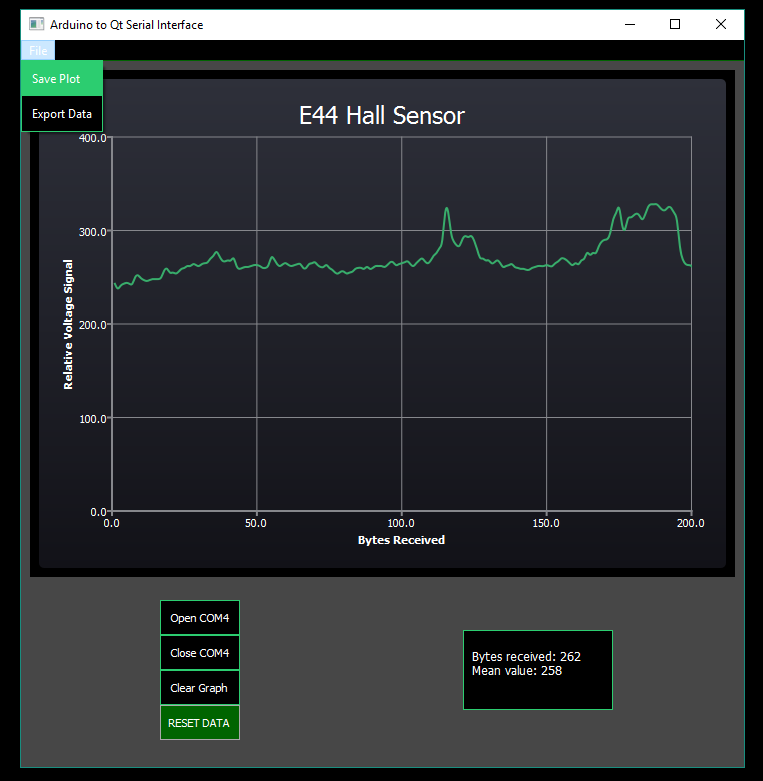
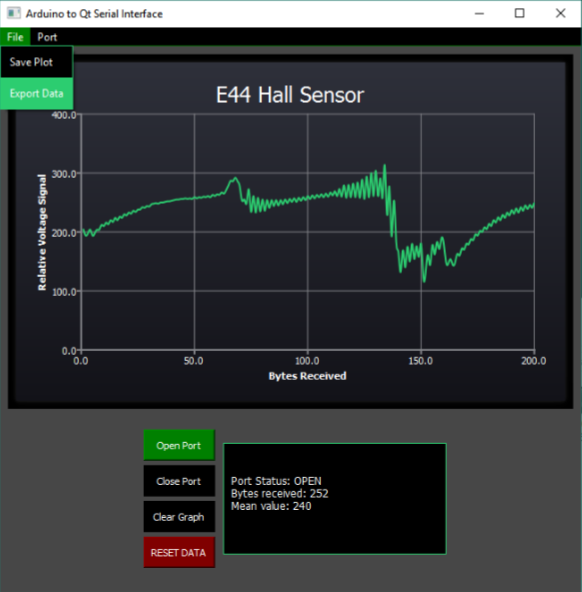
UI update

diff --git a/src/mainwindow.cpp b/src/mainwindow.cpp
@@ -70,8 +70,6 @@ MainWindow::MainWindow(QWidget *parent) : QMainWindow(parent)
     comms_log.setFixedSize(250,125);
     comms_panel_layout->setSpacing(0);
 
-
-    QSpacerItem height_spacer_100(100,100);
     com_button_layout = new QVBoxLayout(comControlWidget);
 
     transmission_label.setText("Transmission |");
@@ -144,7 +142,7 @@ MainWindow::MainWindow(QWidget *parent) : QMainWindow(parent)
     OPEN_COM4.setText("Open Port");
     FLICKER_LED.setText("Close Port");
     OPEN_COM4.setStyleSheet(
-                        "QPushButton:hover{background-color: green; } "
+                         "QPushButton:hover{background-color: green; } "
                          "QPushButton{padding: 3px; "
                          "background-color: black; color: white; "
                          "}"
@@ -174,9 +172,11 @@ MainWindow::MainWindow(QWidget *parent) : QMainWindow(parent)
 
     top_box_layout->addWidget(chartView);
 
-
+    //commsPanelWidget->setMaximumWidth(400);
+        comms_panel_layout->addStretch(300);
     comms_panel_layout->addWidget(comControlWidget); comms_panel_layout->addWidget(&comms_log);
-    comms_panel_layout->setSizeConstraint(QLayout::SetMinimumSize);
+    //comms_panel_layout->setSizeConstraint(QLayout::SetMinimumSize);
+    comms_panel_layout->addStretch(300);
     top_box_layout->addWidget(commsPanelWidget);
 
     connect(&OPEN_COM4,SIGNAL(clicked()),s_com,SLOT(Open_COM4()));
